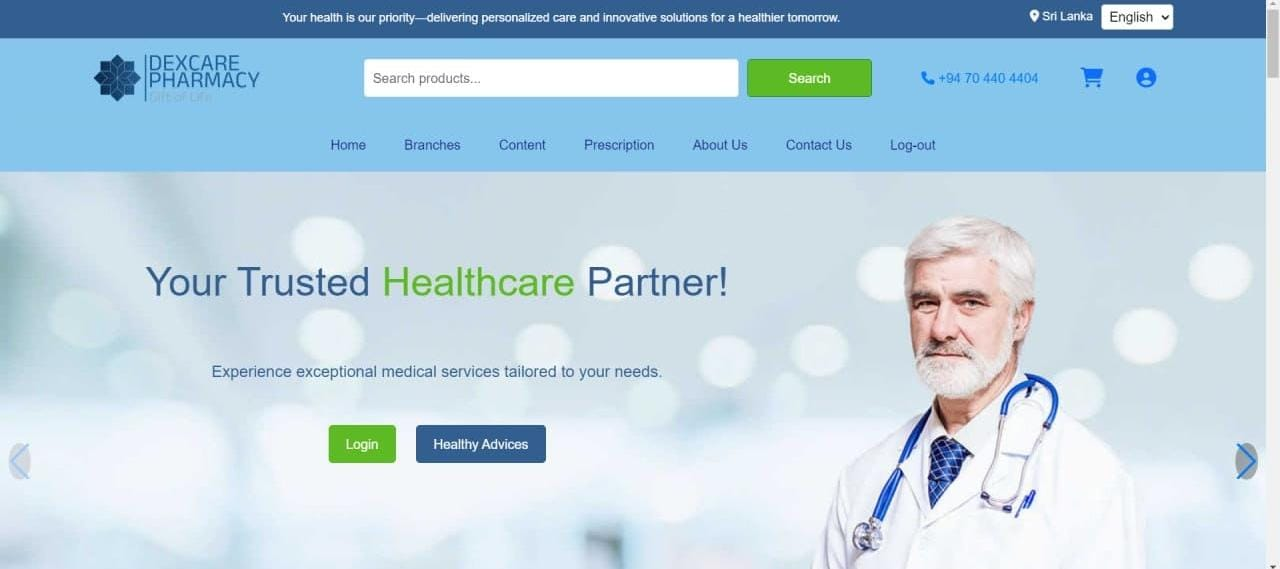
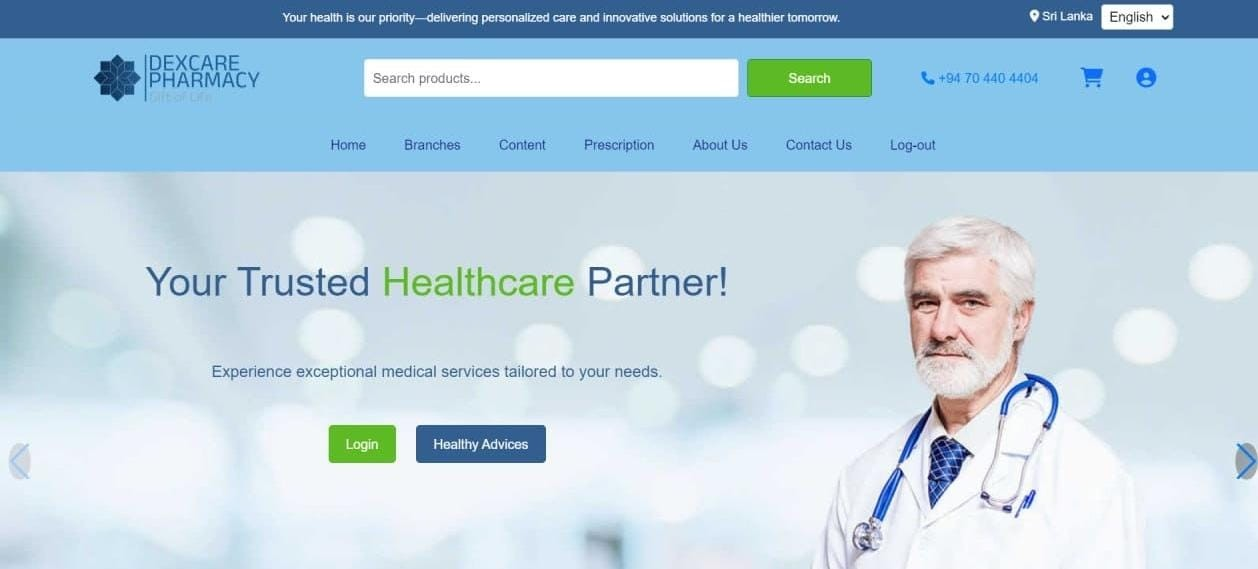
add images and imformation

diff --git a/my-portfolio/src/app/projects/page.js b/my-portfolio/src/app/projects/page.js
@@ -6,13 +6,10 @@ import {
   MagnifyingGlassIcon,
   EyeIcon,
   CodeBracketSquareIcon,
-  ArrowTopRightOnSquareIcon,
   CalendarIcon,
-  TagIcon,
   SparklesIcon,
   FunnelIcon,
   HeartIcon,
-  StarIcon
 } from '@heroicons/react/24/outline';
 import { HeartIcon as HeartSolidIcon } from '@heroicons/react/24/solid';
 
@@ -26,89 +23,89 @@ export default function Projects() {
     setIsVisible(true);
   }, []);
 
-  // Projects data (updated with your actual projects — UI keys preserved)
-const projects = [
-  {
-    id: 1,
-    title: 'ThyroTrack – Thyroid Cancer Risk Prediction System',
-    description: 'Full-stack AI-powered web platform for thyroid cancer risk prediction and patient management.',
-    longDescription: `Developed a full-stack AI-powered web platform for thyroid cancer risk prediction and patient management. Integrated ML models (Random Forest) with SHAP explainability and clinical support tools. Key features include: risk prediction, patient record management, progress & trend tracking, SHAP-based explanations for predictions, and automated report generation.`,
-    image: '../../../public/ThyroTrack.png',
-    technologies: ['React.js', 'Express.js', 'Flask', 'MySQL', 'Random Forest', 'SHAP'],
-    category: 'Full-Stack',
-    liveUrl: '', // add if you have a live demo
-    githubUrl: '', // add repo link if available
-    featured: true,
-    date: '2025',
-    status: 'Completed',
-    likes: 100,
-    views: 2453
-  },
-  {
-    id: 2,
-    title: 'ModaLane E-Commerce Website',
-    description: 'Responsive e-commerce website built with TypeScript, CSS and modern frontend techniques.',
-    longDescription: `Developed a responsive e-commerce site with a modern UI and a clean TypeScript codebase. Key features: responsive navigation, hero CTA, testimonials, benefits and brand story sections, and integrated shopping CTA.`,
-    image: '../../../public/Modalane.png',
-    technologies: ['TypeScript', 'HTML', 'CSS', 'JavaScript'],
-    category: 'Frontend',
-    liveUrl: '',
-    githubUrl: '',
-    featured: false,
-    date: '2025',
-    status: 'Completed',
-    likes: 24,
-    views: 4570
-  },
-  {
-    id: 3,
-    title: 'MegaCityCab Service',
-    description: 'Java EE web application for cab booking and admin operations.',
-    longDescription: `Developed a Java EE web application for cab booking and administrative operations. Key features include user registration/login, chatbot, profile management, booking history and an admin dashboard.`,
-    image: '/api/placeholder/600/400',
-    technologies: ['Java EE', 'JSP/Servlets', 'MySQL'],
-    category: 'Full-Stack',
-    liveUrl: '',
-    githubUrl: '',
-    featured: false,
-    date: '2025',
-    status: 'Completed',
-    likes: 0,
-    views: 0
-  },
-  {
-    id: 4,
-    title: 'Pharmacy Management System',
-    description: 'Web application to manage medicine stock, prescriptions, and sales (group project).',
-    longDescription: `Developed a web application to manage medicine stock, prescriptions and sales. Key features: medicine tracking, billing system, prescription management and basic reports for pharmacy staff.`,
-    image: '../../../public/Pharmacy.jpg',
-    technologies: ['HTML', 'CSS', 'PHP', 'JavaScript', 'SQL'],
-    category: 'Web',
-    liveUrl: '',
-    githubUrl: '',
-    featured: false,
-    date: '2024',
-    status: 'Completed',
-    likes: 450,
-    views: 4908
+  // Projects data with correct image paths
+  const projects = [
+    {
+      id: 1,
+      title: 'ThyroTrack – Thyroid Cancer Risk Prediction System',
+      description: 'Full-stack AI-powered web platform for thyroid cancer risk prediction and patient management.',
+      longDescription: `Developed a full-stack AI-powered web platform for thyroid cancer risk prediction and patient management. Integrated ML models (Random Forest) with SHAP explainability and clinical support tools. Key features include: risk prediction, patient record management, progress & trend tracking, SHAP-based explanations for predictions, and automated report generation.`,
+      image: '/ThyroTrack.png',
+      technologies: ['React.js', 'Express.js', 'Flask', 'MySQL', 'Random Forest', 'SHAP'],
+      category: 'Full-Stack',
+      liveUrl: '',
+      githubUrl: '',
+      featured: true,
+      date: '2025',
+      status: 'Completed',
+      likes: 100,
+      views: 2453
     },
-  {
-    id: 5,
-    title: 'Portfolio – React.js Web Developer Showcase',
-    description: 'Modern and interactive portfolio built with React.js + Vite to highlight web development skills.',
-    longDescription: `A modern, interactive portfolio showcasing projects and skills. Key features: smooth animations (GSAP / Framer Motion), dynamic project showcase, responsive design, and an EmailJS contact form.`,
-    image: '../../../public/Portfolio.png',
-    technologies: ['React.js', 'Vite', 'Framer Motion', 'EmailJS', 'Tailwind CSS'],
-    category: 'Frontend',
-    liveUrl: '', // add your deployed portfolio URL if you want it shown
-    githubUrl: '', // add repo link if you want it shown
-    featured: true,
-    date: '2024',
-    status: 'Completed',
-    likes: 342,
-    views: 3456
-  }
-];
+    {
+      id: 2,
+      title: 'ModaLane E-Commerce Website',
+      description: 'Responsive e-commerce website built with TypeScript, CSS and modern frontend techniques.',
+      longDescription: `Developed a responsive e-commerce site with a modern UI and a clean TypeScript codebase. Key features: responsive navigation, hero CTA, testimonials, benefits and brand story sections, and integrated shopping CTA.`,
+      image: '/Modalane.png',
+      technologies: ['TypeScript', 'HTML', 'CSS', 'JavaScript'],
+      category: 'Frontend',
+      liveUrl: '',
+      githubUrl: '',
+      featured: false,
+      date: '2025',
+      status: 'Completed',
+      likes: 24,
+      views: 4570
+    },
+    {
+      id: 3,
+      title: 'MegaCityCab Service',
+      description: 'Java EE web application for cab booking and admin operations.',
+      longDescription: `Developed a Java EE web application for cab booking and administrative operations. Key features include user registration/login, chatbot, profile management, booking history and an admin dashboard.`,
+      image: '/placeholder.jpg',
+      technologies: ['Java EE', 'JSP/Servlets', 'MySQL'],
+      category: 'Full-Stack',
+      liveUrl: '',
+      githubUrl: '',
+      featured: false,
+      date: '2025',
+      status: 'Completed',
+      likes: 0,
+      views: 0
+    },
+    {
+      id: 4,
+      title: 'Pharmacy Management System',
+      description: 'Web application to manage medicine stock, prescriptions, and sales (group project).',
+      longDescription: `Developed a web application to manage medicine stock, prescriptions and sales. Key features: medicine tracking, billing system, prescription management and basic reports for pharmacy staff.`,
+      image: '/Pharmacy.jpg',
+      technologies: ['HTML', 'CSS', 'PHP', 'JavaScript', 'SQL'],
+      category: 'Web',
+      liveUrl: '',
+      githubUrl: '',
+      featured: false,
+      date: '2024',
+      status: 'Completed',
+      likes: 450,
+      views: 4908
+    },
+    {
+      id: 5,
+      title: 'Portfolio – React.js Web Developer Showcase',
+      description: 'Modern and interactive portfolio built with React.js + Vite to highlight web development skills.',
+      longDescription: `A modern, interactive portfolio showcasing projects and skills. Key features: smooth animations (GSAP / Framer Motion), dynamic project showcase, responsive design, and an EmailJS contact form.`,
+      image: '/Portfolio.png',
+      technologies: ['React.js', 'Vite', 'Framer Motion', 'EmailJS', 'Tailwind CSS'],
+      category: 'Frontend',
+      liveUrl: '',
+      githubUrl: '',
+      featured: true,
+      date: '2024',
+      status: 'Completed',
+      likes: 342,
+      views: 3456
+    }
+  ];
 
   const categories = ['All', 'Full-Stack', 'Frontend', 'Backend', 'Mobile', 'Blockchain'];
 
@@ -231,10 +228,22 @@ const projects = [
                   className={`group bg-white rounded-2xl sm:rounded-3xl overflow-hidden shadow-sm hover:shadow-2xl transition-all duration-500 border border-gray-100 hover:border-blue-200 ${isVisible ? 'opacity-100 translate-y-0' : 'opacity-0 translate-y-8'}`}
                   style={{ transitionDelay: `${index * 200}ms` }}
                 >
-                  {/* Image */}
+                  {/* Image - FIXED */}
                   <div className="relative overflow-hidden">
-                    <div className="w-full h-48 sm:h-64 bg-gradient-to-br from-blue-100 to-blue-200 flex items-center justify-center">
-                      <div className="text-3xl sm:text-4xl">🚀</div>
+                    <div className="relative w-full h-48 sm:h-64 bg-gradient-to-br from-blue-100 to-blue-200">
+                      {project.image && !project.image.includes('placeholder') ? (
+                        <Image
+                          src={project.image}
+                          alt={project.title}
+                          fill
+                          className="object-cover"
+                          sizes="(max-width: 768px) 100vw, (max-width: 1200px) 50vw, 33vw"
+                        />
+                      ) : (
+                        <div className="absolute inset-0 flex items-center justify-center">
+                          <div className="text-3xl sm:text-4xl">🚀</div>
+                        </div>
+                      )}
                     </div>
                     <div className="absolute inset-0 bg-gradient-to-t from-black/20 to-transparent opacity-0 group-hover:opacity-100 transition-opacity duration-300" />
                     
@@ -297,25 +306,29 @@ const projects = [
                     </div>
                     
                     <div className="flex flex-col sm:flex-row gap-2 sm:gap-3">
-                      <a
-                        href={project.liveUrl}
-                        target="_blank"
-                        rel="noopener noreferrer"
-                        className="inline-flex items-center justify-center bg-blue-600 hover:bg-blue-700 text-white px-4 sm:px-6 py-2 sm:py-3 rounded-xl font-semibold text-sm transition-all duration-300 hover:shadow-lg hover:scale-105"
-                      >
-                        <EyeIcon className="w-4 h-4 mr-1.5 sm:mr-2" />
-                        Live Demo
-                      </a>
+                      {project.liveUrl && (
+                        <a
+                          href={project.liveUrl}
+                          target="_blank"
+                          rel="noopener noreferrer"
+                          className="inline-flex items-center justify-center bg-blue-600 hover:bg-blue-700 text-white px-4 sm:px-6 py-2 sm:py-3 rounded-xl font-semibold text-sm transition-all duration-300 hover:shadow-lg hover:scale-105"
+                        >
+                          <EyeIcon className="w-4 h-4 mr-1.5 sm:mr-2" />
+                          Live Demo
+                        </a>
+                      )}
                       
-                      <a
-                        href={project.githubUrl}
-                        target="_blank"
-                        rel="noopener noreferrer"
-                        className="inline-flex items-center justify-center text-gray-700 hover:text-gray-900 px-4 sm:px-6 py-2 sm:py-3 rounded-xl font-semibold text-sm transition-all duration-300 border border-gray-200 hover:bg-gray-50"
-                      >
-                        <CodeBracketSquareIcon className="w-4 h-4 mr-1.5 sm:mr-2" />
-                        Source Code
-                      </a>
+                      {project.githubUrl && (
+                        <a
+                          href={project.githubUrl}
+                          target="_blank"
+                          rel="noopener noreferrer"
+                          className="inline-flex items-center justify-center text-gray-700 hover:text-gray-900 px-4 sm:px-6 py-2 sm:py-3 rounded-xl font-semibold text-sm transition-all duration-300 border border-gray-200 hover:bg-gray-50"
+                        >
+                          <CodeBracketSquareIcon className="w-4 h-4 mr-1.5 sm:mr-2" />
+                          Source Code
+                        </a>
+                      )}
                     </div>
                   </div>
                 </article>
@@ -360,10 +373,22 @@ const projects = [
                   className={`group bg-white rounded-xl sm:rounded-2xl overflow-hidden shadow-sm hover:shadow-xl transition-all duration-300 border border-gray-100 hover:border-blue-200 hover:scale-105 ${isVisible ? 'opacity-100 translate-y-0' : 'opacity-0 translate-y-8'}`}
                   style={{ transitionDelay: `${index * 100}ms` }}
                 >
-                  {/* Image */}
+                  {/* Image - FIXED */}
                   <div className="relative">
-                    <div className="w-full h-40 sm:h-48 bg-gradient-to-br from-blue-100 to-blue-200 flex items-center justify-center">
-                      <div className="text-2xl sm:text-3xl">📱</div>
+                    <div className="relative w-full h-40 sm:h-48 bg-gradient-to-br from-blue-100 to-blue-200">
+                      {project.image && !project.image.includes('placeholder') ? (
+                        <Image
+                          src={project.image}
+                          alt={project.title}
+                          fill
+                          className="object-cover"
+                          sizes="(max-width: 768px) 100vw, (max-width: 1200px) 50vw, 33vw"
+                        />
+                      ) : (
+                        <div className="absolute inset-0 flex items-center justify-center">
+                          <div className="text-2xl sm:text-3xl">📱</div>
+                        </div>
+                      )}
                     </div>
                     
                     {/* Category Badge */}
@@ -418,23 +443,29 @@ const projects = [
                     </div>
                     
                     <div className="flex items-center justify-between">
-                      <a
-                        href={project.liveUrl}
-                        target="_blank"
-                        rel="noopener noreferrer"
-                        className="text-blue-600 hover:text-blue-700 text-xs sm:text-sm font-semibold transition-colors duration-300"
-                      >
-                        View Project →
-                      </a>
+                      {project.liveUrl ? (
+                        <a
+                          href={project.liveUrl}
+                          target="_blank"
+                          rel="noopener noreferrer"
+                          className="text-blue-600 hover:text-blue-700 text-xs sm:text-sm font-semibold transition-colors duration-300"
+                        >
+                          View Project →
+                        </a>
+                      ) : (
+                        <span className="text-gray-400 text-xs sm:text-sm">Demo Coming Soon</span>
+                      )}
                       
-                      <a
-                        href={project.githubUrl}
-                        target="_blank"
-                        rel="noopener noreferrer"
-                        className="p-1.5 sm:p-2 text-gray-400 hover:text-gray-600 transition-colors duration-300"
-                      >
-                        <CodeBracketSquareIcon className="w-4 h-4 sm:w-5 sm:h-5" />
-                      </a>
+                      {project.githubUrl && (
+                        <a
+                          href={project.githubUrl}
+                          target="_blank"
+                          rel="noopener noreferrer"
+                          className="p-1.5 sm:p-2 text-gray-400 hover:text-gray-600 transition-colors duration-300"
+                        >
+                          <CodeBracketSquareIcon className="w-4 h-4 sm:w-5 sm:h-5" />
+                        </a>
+                      )}
                     </div>
                   </div>
                 </article>
@@ -457,7 +488,7 @@ const projects = [
           
           <div className="flex flex-col sm:flex-row items-center justify-center gap-3 sm:gap-4 max-w-md sm:max-w-none mx-auto">
             <Link
-              href="#contact"
+              href="/contact"
               className="bg-blue-600 hover:bg-blue-700 text-white px-6 sm:px-8 py-3 sm:py-4 rounded-full font-semibold text-base sm:text-lg transition-all duration-300 hover:shadow-lg hover:scale-105 w-full sm:w-auto text-center"
             >
               Start a Project
